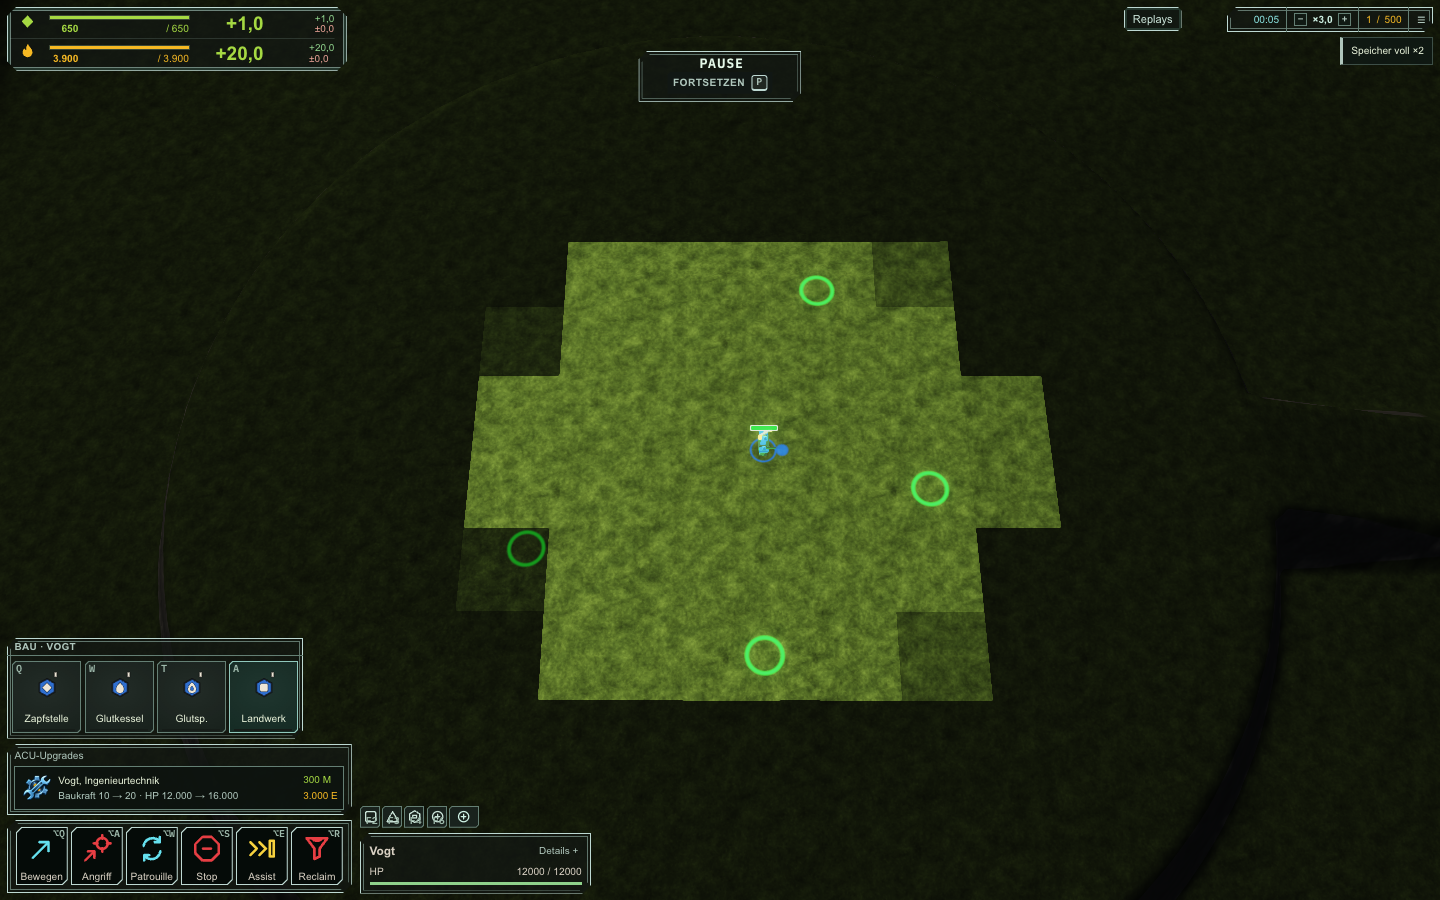
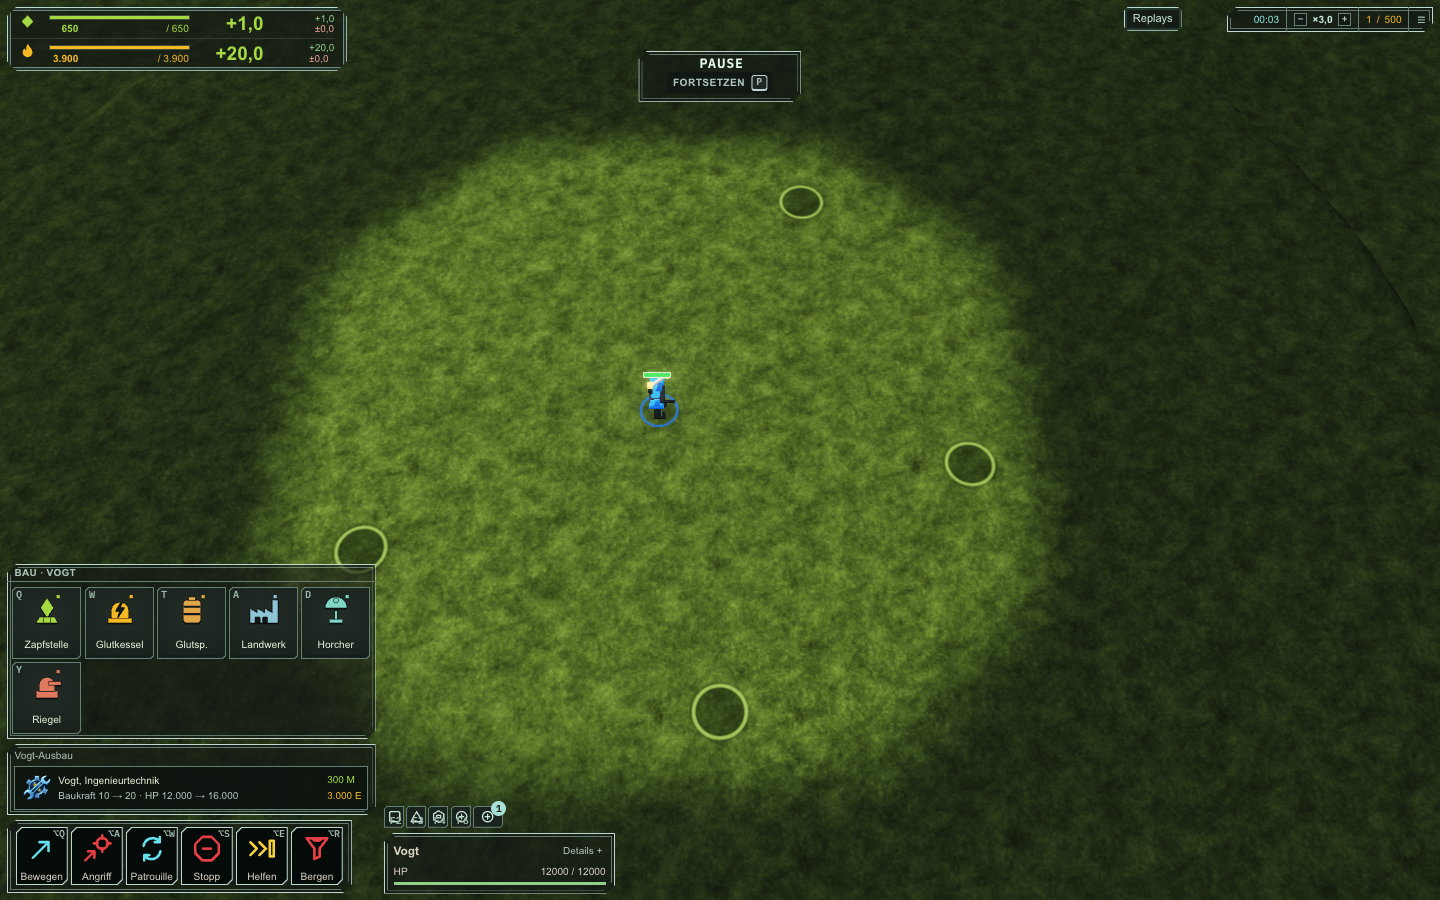
Document verified HomeBox delivery at faf.logge.top

diff --git a/docs/status/integration-completion.md b/docs/status/integration-completion.md
@@ -5,8 +5,8 @@ spielbare Entwicklungsversion läuft auf der HomeBox:
 [Flow & Fire starten](https://faf.logge.top/?menu=1).
 Das [Repository](https://github.com/LoggeL/flow-and-fire) ist öffentlich;
 [README](../../README.md) und [Docker-Anleitung](../deployment.md) beschreiben Start
-und Bedienung. Der ausgelieferte Spielbuild ist `48ecd86e71a1`, Sim-Version
-`faf-sim/ms6.2-economy-upgrades`.
+und Bedienung. Der ausgelieferte Spielbuild ist `7fc3bcf2cc72`, Sim-Version
+`faf-sim/ms6.3-factory-tiers-radar`. Die ältere Adresse bleibt als Alias erreichbar.
 
 ## Umgesetzter Umfang
 
@@ -16,7 +16,7 @@ und Bedienung. Der ausgelieferte Spielbuild ist `48ecd86e71a1`, Sim-Version
 | KI | Wahrnehmung und Commands aus der echten Simulation, Browser-Worker und Scheduler, Inline-Ausführung und deterministische Befehlswiedergabe |
 | Audio | Spielereignisse und Klickbestätigung im laufenden Spiel, Session-Abbau vor einem historischen Replay |
 | Editor | Karten- und Markerwerkzeuge im gemeinsamen Workspace; Originalkarten und Archive bleiben erhalten |
-| HUD | Echte Spielzustände und Commands, Mehrfachauswahl, Shift-Ziehbau, Fabrik-Rally, bezahlte ACU- und Extraktor-Upgrades |
+| HUD | Echte Spielzustände und Commands, Mehrfachauswahl, Shift-Ziehbau, Fabrik-Rally, bezahlte ACU-, Extraktor- und Fabrik-Upgrades, Ergebnisstatistik |
 | Darstellung/FX | Modelle mit artikulierten Teilen und Gehbewegung, Projektile, Baubeams, Kampf- und Todesereignisse, Render-Passes |
 | Replay | Aufnahmebibliothek, Player, Seek, Export, historische Builds und tatsächliche OPFS-Wiederherstellung nach Tab-Abbruch |
 
@@ -34,9 +34,23 @@ danach `TogglePause(false)`; generischer Stop bleibt unverändert. Vertrag:
 `apps/game/test/upgrade-cancel-resume.test.ts`. Siehe
 [Fixes vom 1. Oktober](opus-fixes-2026-10-01.md).
 
+Das Opus-Review ist umgesetzt: lesbarere Menüs und Bauglyphen, weicheres Sichtfeld,
+Ergebnisstatistik, Replay-Suche und lokale Anzeigenamen. Fabriken lassen sich bis T3
+ausbauen; Geschützturm und Radar sind im normalen Bauangebot vorhanden. Auch eine
+pausierte Partie kann nach Bestätigung aufgegeben werden.
+
 ## Nachweise und ihre Grenzen
 
-Die letzte Spielkorrektur hat 96 betroffene Verträge, 60 Hash-/Replay-Golden-Verträge
+Nach dem Opus-Review bestehen die lokale Suite mit 3339 Tests, Typprüfung und Lint.
+Für die Lieferung wurden 35 betroffene Verträge und acht Archivtests erneut geprüft.
+Der öffentliche Build `7fc3bcf2cc72` besteht den tatsächlichen Chromium-Ablauf: Start,
+pausierten Ausbau abbrechen, danach Fabrik fertigstellen und einen Ingenieur produzieren,
+im Pausemodus aufgeben, Ergebnisstatistik öffnen und das neue Replay prüfen. Eine alte
+Aufnahme lädt den Originalbuild `48ecd86e71a1`; drei Vorwärts-/Rückwärts-Seeks stimmen
+mit ihren aufgezeichneten Regel-Hashes überein. Der Container ist gesund und hat keine
+Neustarts. Siehe [Deployment-Abnahme](deployment-2026-10-01.md).
+
+Die frühere ms6.2-Spielkorrektur hat 96 betroffene Verträge, 60 Hash-/Replay-Golden-Verträge
 sowie sechs tatsächliche Rally-/Extraktor-Spielabläufe in Chromium, Firefox und WebKit
 bestanden. Drei weitere Browserprüfungen öffnen eine unveränderte alte Aufnahme nach
 dem Docker-Update, suchen vorwärts und rückwärts, spielen sie ab und exportieren
@@ -47,8 +61,9 @@ Die früheren Abnahmen enthalten 24 UI-Fälle, drei Audio-Fälle, sechs echte Ka
 Kontextfälle und eine zehnminütige Aufnahme mit tatsächlichem Tab-Abbruch und
 OPFS-Wiederherstellung. Ihre jeweiligen Builds und Fehler bleiben in der
 [Integrationshistorie](integration-history.md) und den lokalen Originalbelegen erhalten.
-Diese früheren Prüfungen werden nicht als erneute vollständige Abnahme von ms6.2
-ausgegeben. Automatisierte Browserprüfungen verwenden vor der Navigation eine
+Diese früheren Prüfungen werden nicht als erneute vollständige Abnahme von ms6.3
+ausgegeben. Firefox, WebKit und Performance-Gates wurden für die Opus-Lieferung
+nicht erneut ausgeführt. Automatisierte Browserprüfungen verwenden vor der Navigation eine
 Hardware-Audiosperre; Lautsprecher werden dabei nicht verbunden.
 
 Zum Abschluss wurden zwei veraltete Test-Erwartungen auf die tatsächliche ms6.2-

diff --git a/docs/status/opus-fixes-2026-10-01.md b/docs/status/opus-fixes-2026-10-01.md
@@ -1,8 +1,9 @@
 # Opus-Fixes 2026-10-01
 
-Stand: lokaler Arbeitsbaum auf Basis `c576c5c`, nicht committet, nicht deployt. Diese Datei hält nur
-Ergebnisse fest, die lokal geprüft wurden; Belege liegen unter `test-results/opus-implementation-20261001/`.
-Eine Deployment-Abnahme ist damit nicht erfolgt.
+Stand: Opus-Implementierung in `adca9838712b`, ergänzt um den Aufgeben-Fix in `7fc3bcf2cc72`.
+Der Build `7fc3bcf2cc72` läuft als gesunder Docker-Container auf der HomeBox unter
+[faf.logge.top](https://faf.logge.top/?menu=1). Die bisherige Adresse bleibt als Alias erreichbar.
+Lokale Originalbelege liegen unter `test-results/opus-implementation-20261001/`.
 
 ## Prüfungen (seriell, Abschlussstand)
 
@@ -14,6 +15,13 @@ Eine Deployment-Abnahme ist damit nicht erfolgt.
 | Originalaufnahme `current-public-match.rtsreplay` gegen ms6.2 (vor Identitätswechsel) | 255 Regel-Hashes, 25 Tabellen-Hashes, 0 Abweichungen (`public-replay-verify.json`) |
 | Originalaufnahme gegen ms6.3 | wird nicht abgespielt, sondern mit `ReplayCompatError` auf `/b/48ecd86e71a1/` verwiesen; SHA-256 `bb448a40…` unverändert (`public-replay-route.json`) |
 | Stumme Browserbelege (Chromium, `installSilentOutput`/`assertSilentOutput` vor jeder Navigation) | `screens/*.png`, `shots-manifest.json`, `motion.json` |
+| Delivery-Prüfung nach Integration | Typprüfung und Lint bestanden; 35 betroffene Tests sowie 8 Release-Archiv-Tests bestanden |
+| Öffentlicher Build `7fc3bcf2cc72` | Spielstart, Upgrade-Abbruch, vollständiger Fabrikbau, Rally/Produktion, Aufgeben aus Pause, Statistik und neue Replay-Wiedergabe bestanden |
+| Historisches Replay auf `faf.logge.top` | Originalbuild `48ecd86e71a1` geladen, Hashes an Tick 600, 100 und 2500 stimmen überein |
+
+Die öffentliche Chromium-Prüfung hat zehn Screens, keine Seitenfehler, keine fehlgeschlagenen HTTP-Antworten
+und keine Lautsprecherverbindungen. Beleg: `deployment/receipt.json`; Details:
+[Deployment-Abnahme](deployment-2026-10-01.md).
 
 Nicht gelaufen: die Playwright-Specs unter `test/e2e`, Firefox/WebKit, Timing-Gates, lange KI-/GPU-Kampagnen.
 
@@ -48,6 +56,8 @@ Nicht gelaufen: die Playwright-Specs unter `test/e2e`, Firefox/WebKit, Timing-Ga
   „wird abgeschlossen“, „nicht erfasst“ oder „teilweise“ gekennzeichnet. Im laufenden HUD keine Feinddaten.
 - Letzte Partie im Hauptmenü, Revanche, „Replay ansehen“ öffnet die beendete Partie.
 - Gefundener Fehler: der Worker-Link verwarf die neue Nachricht; behoben, mit Test.
+- Beim Aufgeben wird die Simulation nach dem Selbstzerstörungsbefehl fortgesetzt. So kann auch eine
+  pausierte Partie enden; die Bestätigung bleibt erforderlich.
 - Belege: `match-stats.test.ts`, `score.test.ts`, Screens `p3-*`.
 
 ## 4 Setup, Menüs, Settings, Texte
@@ -87,14 +97,13 @@ Nicht gelaufen: die Playwright-Specs unter `test/e2e`, Firefox/WebKit, Timing-Ga
 
 ## Grenzen und offene Punkte
 
-- Die Existenz von `/b/48ecd86e71a1/` auf dem Server wurde nicht geprüft; geprüft ist nur der Verweis.
-  Neue Partien sind mit ms6.2-Clients nicht abspielbar (gewollter Identitätswechsel).
+- Der ursprüngliche Build `/b/48ecd86e71a1/` bleibt im persistenten Archiv erhalten. Neue Partien sind mit
+  ms6.2-Clients nicht abspielbar (gewollter Identitätswechsel).
 - Radar-Blips übertragen im Frame den Blueprint-Index (für den Culling-Radius). Das HUD zeigt nichts davon,
   im Datenstrom ist der Typ aber lesbar.
 - Werte für Geschützturm (1350 HP, 240 M/2000 E, Waffe Reichweite 24, 45 Schaden, 1,2 s) und Radar (200 HP)
   sind gesetzt, nicht balanciert; einzelne Namen/Werte weichen vom Roster-Dokument ab.
-- `packages/sim/test/zz-debug.test.ts` enthält einen echten PD-Zielprioritätstest, sollte aber umbenannt
-  werden (Löschen/Umbenennen war in dieser Sitzung nicht möglich).
+- Der PD-Zielprioritätstest heißt jetzt `packages/sim/test/pd-target-priority.test.ts` und besteht.
 - `screens/p2-failure.png`, `p3-failure.png`, `p5-failure.png` sind Fehlbilder früherer Läufe.
 - Playwright-E2E nicht ausgeführt; Bildbelege nur in Chromium.
 - Keine Timing-Aussagen: keine Gates, keine Frame-Budget-Messung.

diff --git a/docs/status/deployment-2026-10-01.md b/docs/status/deployment-2026-10-01.md
@@ -1,0 +1,41 @@
+# HomeBox-Lieferung am 1. Oktober 2026
+
+Die Opus-Änderungen sind veröffentlicht und auf der HomeBox ausgeliefert:
+[faf.logge.top](https://faf.logge.top/?menu=1). Die bisherige Adresse bleibt als Alias erhalten.
+
+- Quellstand: `7fc3bcf2cc72ef55ba6cfd9bb6b03c8227c7bdb6`.
+- Image: `flow-and-fire:7fc3bcf2cc72`, Container: `flow-and-fire-game-1`.
+- Sim-Identität: `faf-sim/ms6.3-factory-tiers-radar`, simHash `0x249a86a9`.
+- Container gesund, null Neustarts, Benutzer `node`, Root-Dateisystem schreibgeschützt.
+- HTTPS und Isolation-Header aktiv; der Spielstart bestätigt `crossOriginIsolated`.
+- Das persistente Build-Archiv wurde erhalten, einschließlich des ursprünglichen ms6.2-Builds.
+
+Die öffentliche Chromium-Prüfung verwendet native UI-Aktionen und lesende Test-Hooks.
+Spielbefehle werden weder injiziert noch durch Spawns ersetzt. Die neue Aufnahme ist
+unverfälscht (`Tainted` nicht gesetzt).
+
+| Ablauf | Ergebnis |
+| --- | --- |
+| Menü und Setup | Blaue/rote Armee, getrennte Teams, normales KI-Gefecht startet |
+| ACU-Ausbau | Starten, pausieren, abbrechen: Pausezustand wird aufgehoben |
+| Anschließender Bau | Fabrik vollständig fertiggestellt, Ausbauangebot aktiv |
+| Fabrik | Rally über UI gesetzt, Ingenieur vollständig produziert |
+| Aufgeben | Aus globaler Pause nach Bestätigung beendet, Statistik zeigt gebaute Einheit und Gebäude |
+| Neue Aufnahme | Exportiert, wiedergegeben, erster Vergleich zunächst ausstehend, Tick 100 sauber |
+| Alte Aufnahme | Originalbuild `48ecd86e71a1` lädt, Seek vorwärts und rückwärts stimmt mit gespeicherten Hashes überein |
+
+Für die alte Aufnahme stimmen Tick 600 (`2514971037`), Tick 100 (`1262085241`) und
+Tick 2500 (`2141547410`) jeweils exakt überein. Die zehn Screens enthalten keine
+Seitenfehler oder fehlgeschlagenen HTTP-Antworten. Vor jeder Navigation war die
+Audiosperre installiert: null Lautsprecherverbindungen und null blockierte Verbindungsversuche.
+
+Lokale Belege: `test-results/opus-implementation-20261001/deployment/receipt.json`,
+die dazugehörigen PNGs und `fresh-public-match.rtsreplay`. Die README-Abbildung stammt
+aus diesem öffentlichen Build.
+
+Typprüfung und Lint bestehen. Opus' lokale Suite umfasst 336 Dateien und 3339 Tests;
+die Lieferung hat zusätzlich 35 betroffene Tests und acht Archivtests bestanden.
+Firefox/WebKit, Performance-Gates und die vollständigen Playwright-Specs wurden für
+diese Lieferung nicht erneut ausgeführt. Die bekannten Performance- und Balancegrenzen
+stehen weiterhin im [Integrationsabschluss](integration-completion.md) und im
+[Opus-Fixbericht](opus-fixes-2026-10-01.md).

diff --git a/docs/deployment.md b/docs/deployment.md
@@ -38,7 +38,7 @@ Die `.env` wird von Compose gelesen und gehört zur lokalen Deployment-Konfigura
 
 ## Auf HomeBox bereitstellen
 
-Das Spiel läuft unter [faf.logge.top](https://faf.logge.top/?menu=1), erreichbar über den vorhandenen Traefik-Proxy. Der öffentliche Browserstart ist geprüft: Gefecht gegen Normal-KI, Commander-Auswahl und Bewegung, Fabrik-Baumodus und Ressourcen-HUD ohne Lade- oder Laufzeitfehler. Die Audioausgabe blieb dabei strikt ohne Lautsprecherverbindung. Das öffentliche Repository liegt unter [LoggeL/flow-and-fire](https://github.com/LoggeL/flow-and-fire).
+Das Spiel läuft unter [faf.logge.top](https://faf.logge.top/?menu=1), erreichbar über den vorhandenen Traefik-Proxy. `flow-and-fire.logge.top` bleibt als Alias erhalten. Build `7fc3bcf2cc72` ist öffentlich geprüft: Spielstart, Upgrade-Abbruch, vollständiger Fabrikbau und Produktion, Aufgeben im Pausemodus, Ergebnisstatistik sowie neue und historische Replays. Die Audioausgabe blieb dabei strikt ohne Lautsprecherverbindung. Details stehen in der [Deployment-Abnahme](status/deployment-2026-10-01.md). Das öffentliche Repository liegt unter [LoggeL/flow-and-fire](https://github.com/LoggeL/flow-and-fire).
 
 Für einen neuen Checkout auf HomeBox:
 
